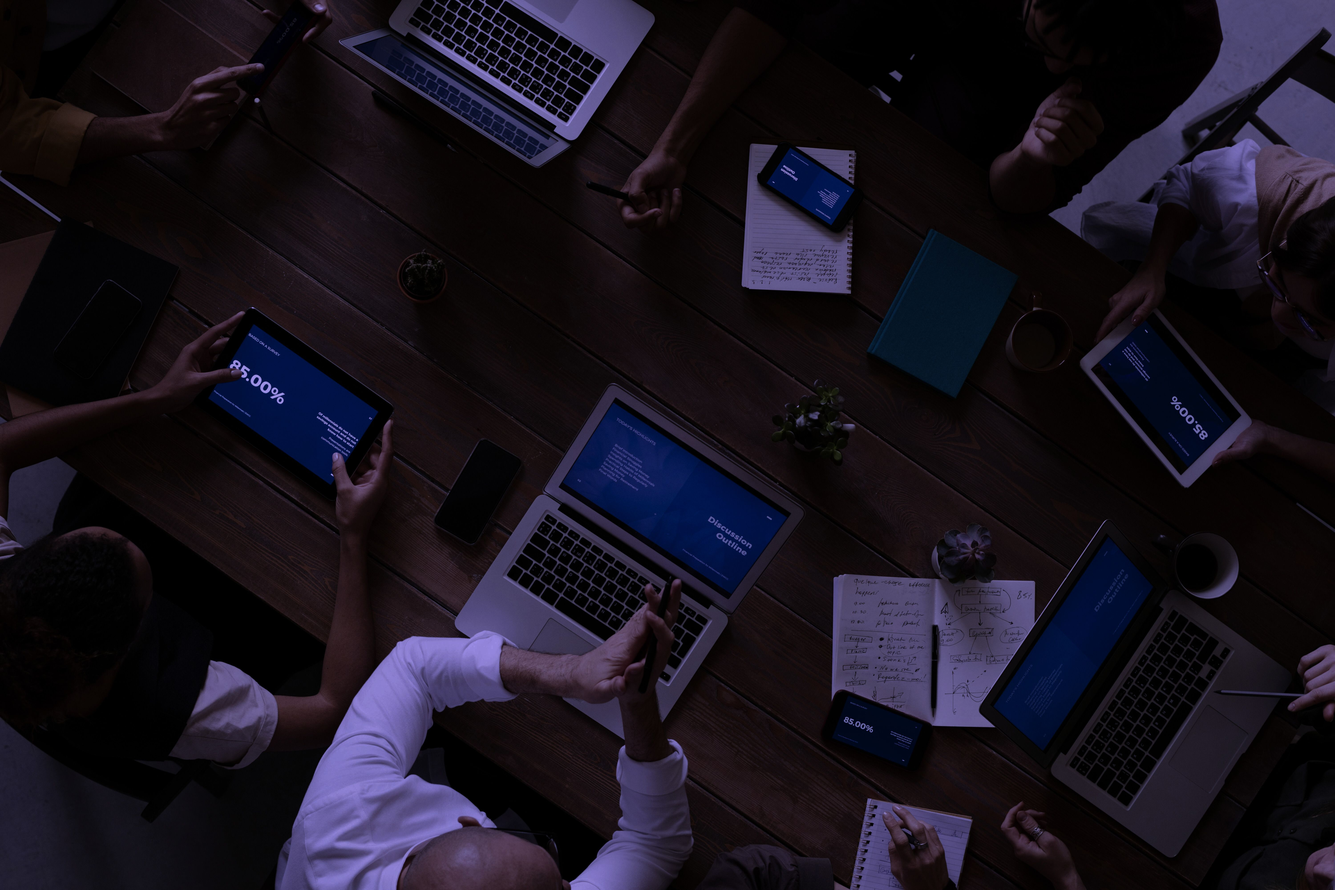
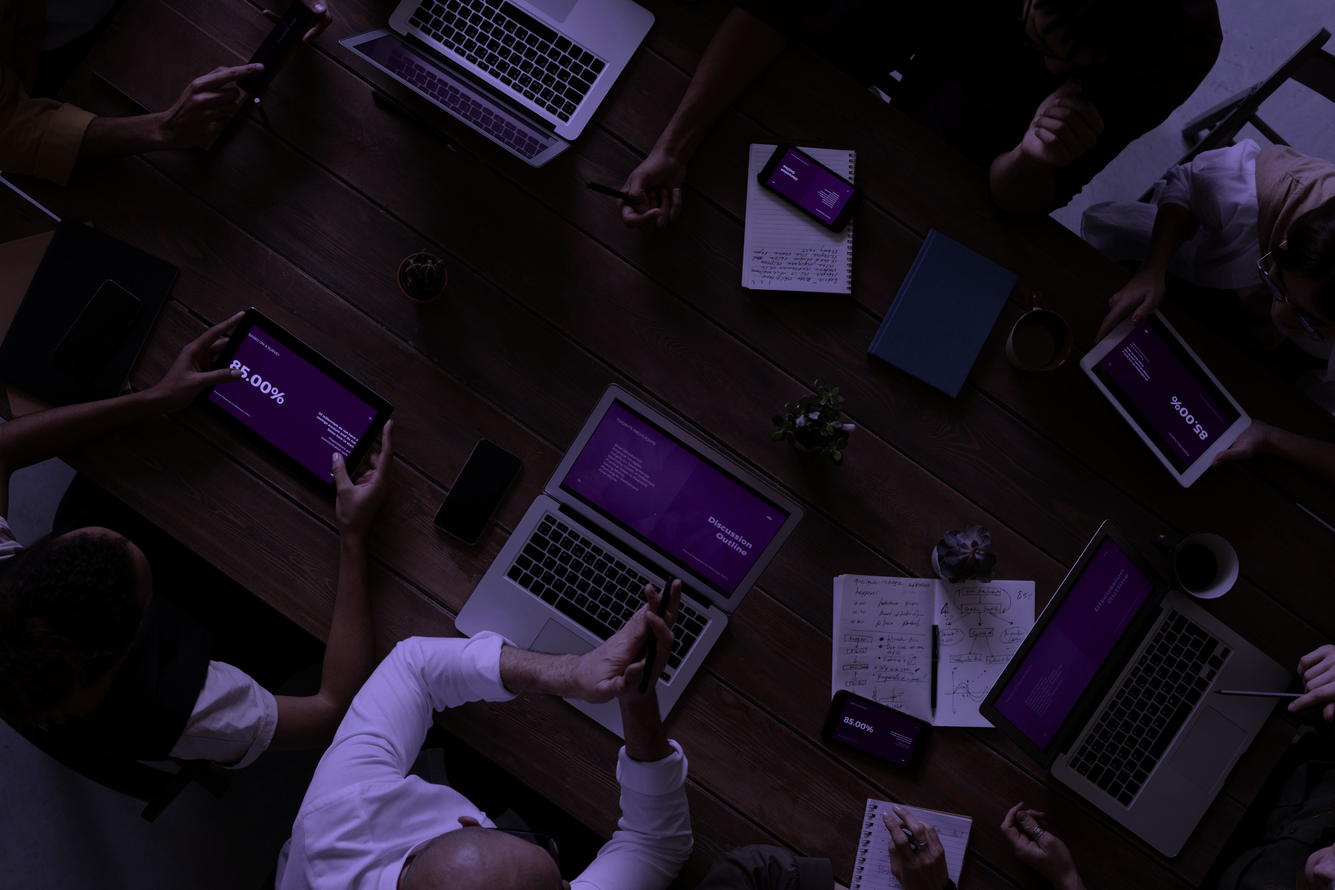
feat: about page

diff --git a/src/app/about/page.tsx b/src/app/about/page.tsx
@@ -14,7 +14,7 @@ export default function About() {
           quality={100}
           className='absolute inset-0 h-full w-full object-cover'
         />
-        <div className='absolute inset-0 bg-black bg-opacity-70 p-10 text-white md:p-40'>
+        <div className='absolute inset-0 bg-black bg-opacity-40 p-10 text-white md:p-40'>
           <h1 className='text-sm font-thin'>ABOUT US</h1>
           <p className='relative text-4xl'>
             Lorem ipsum dolor sit amet consectetur adipisicing elit. Sapiente
